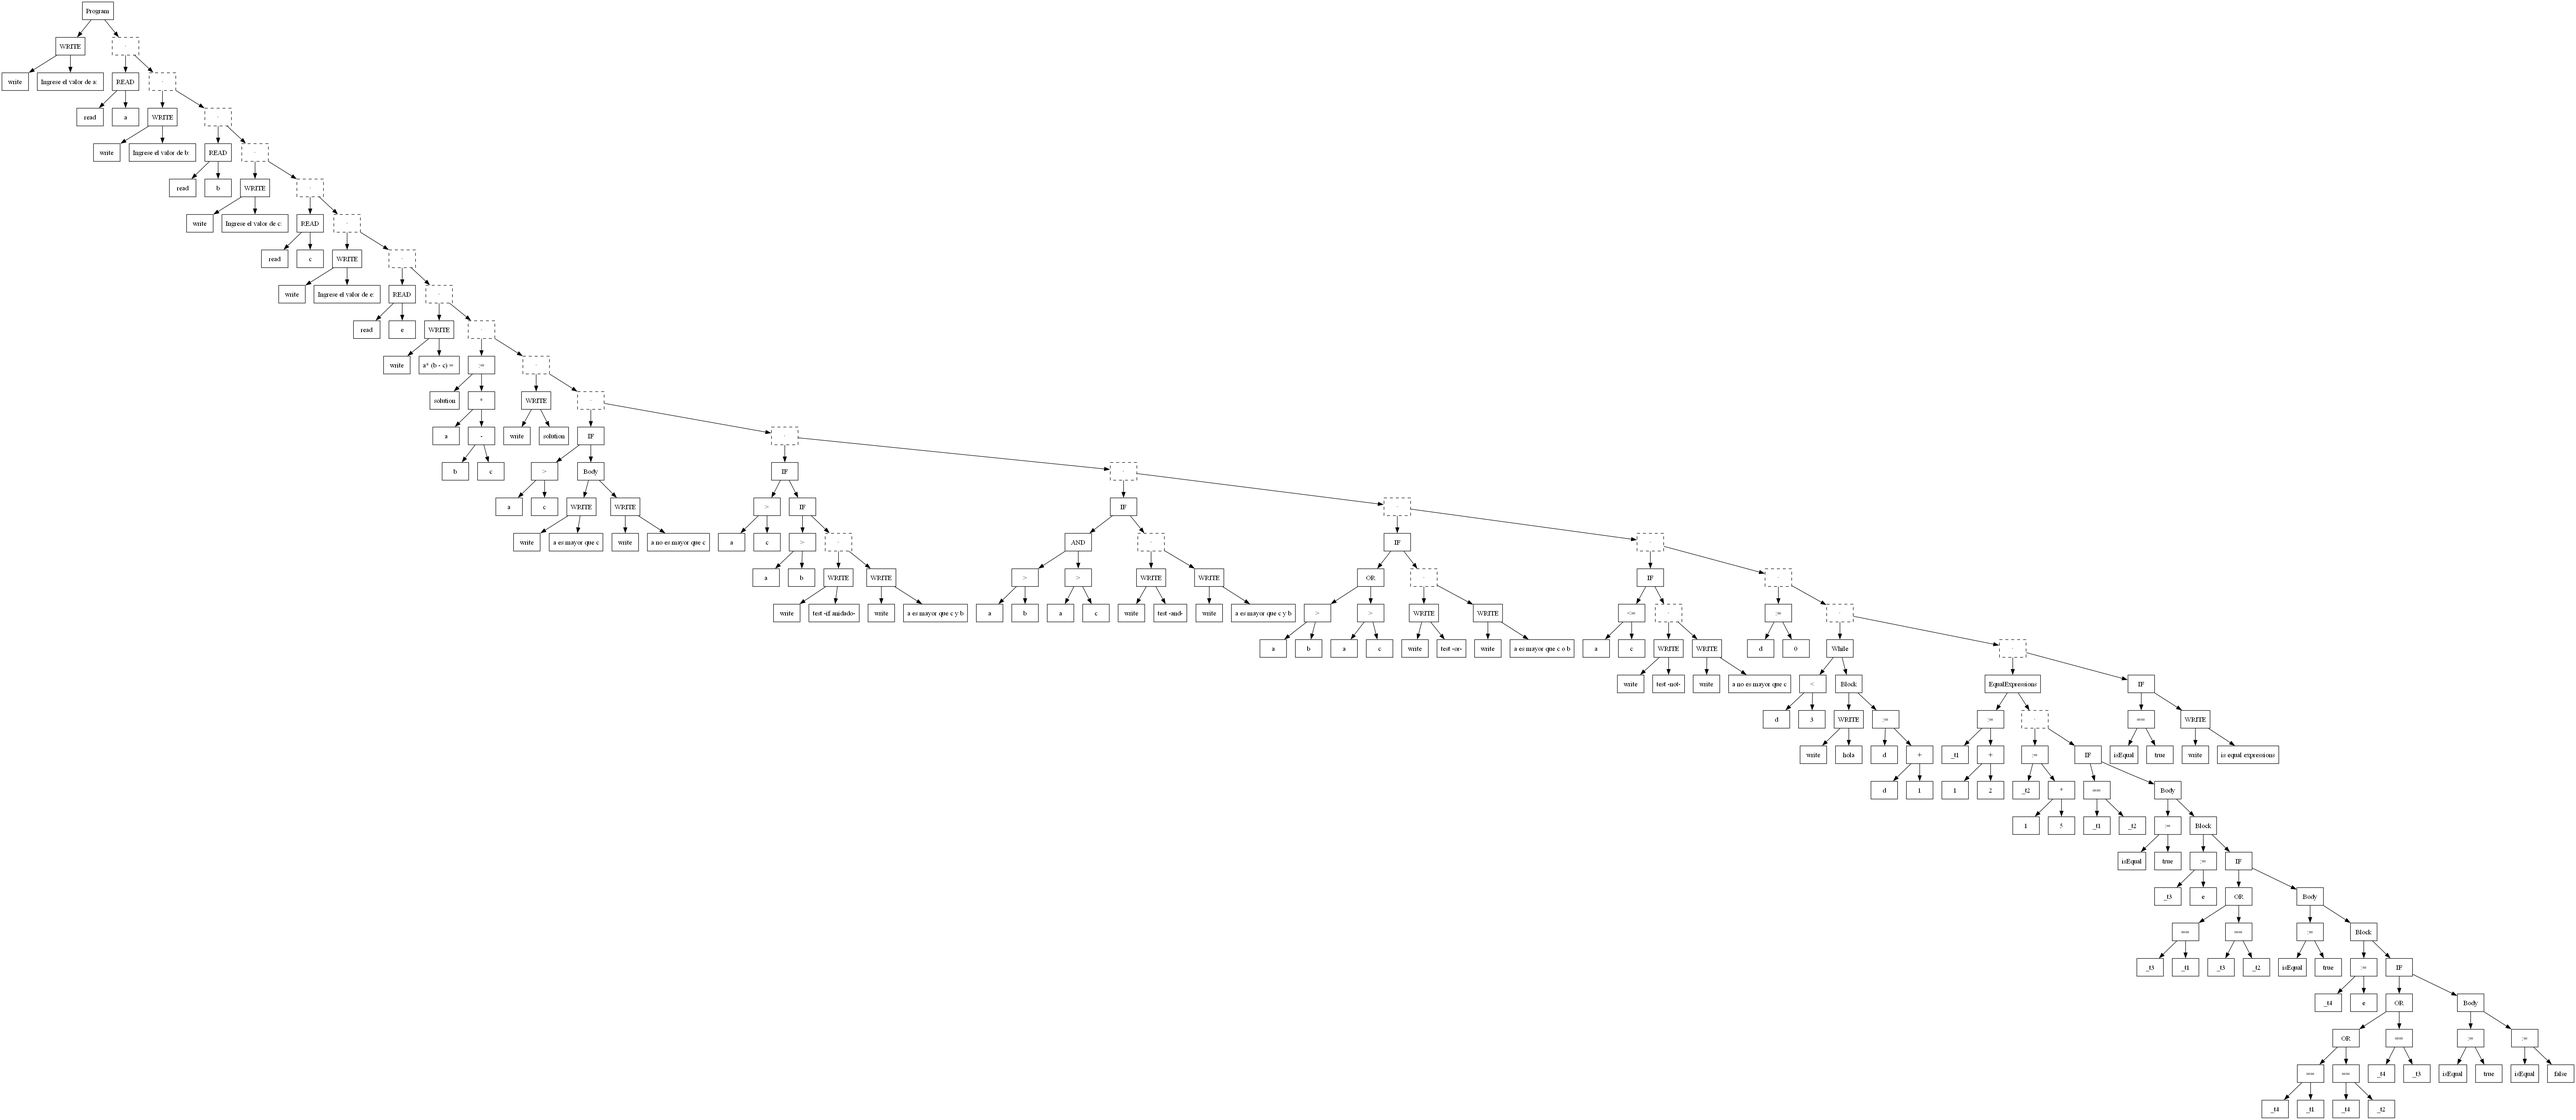
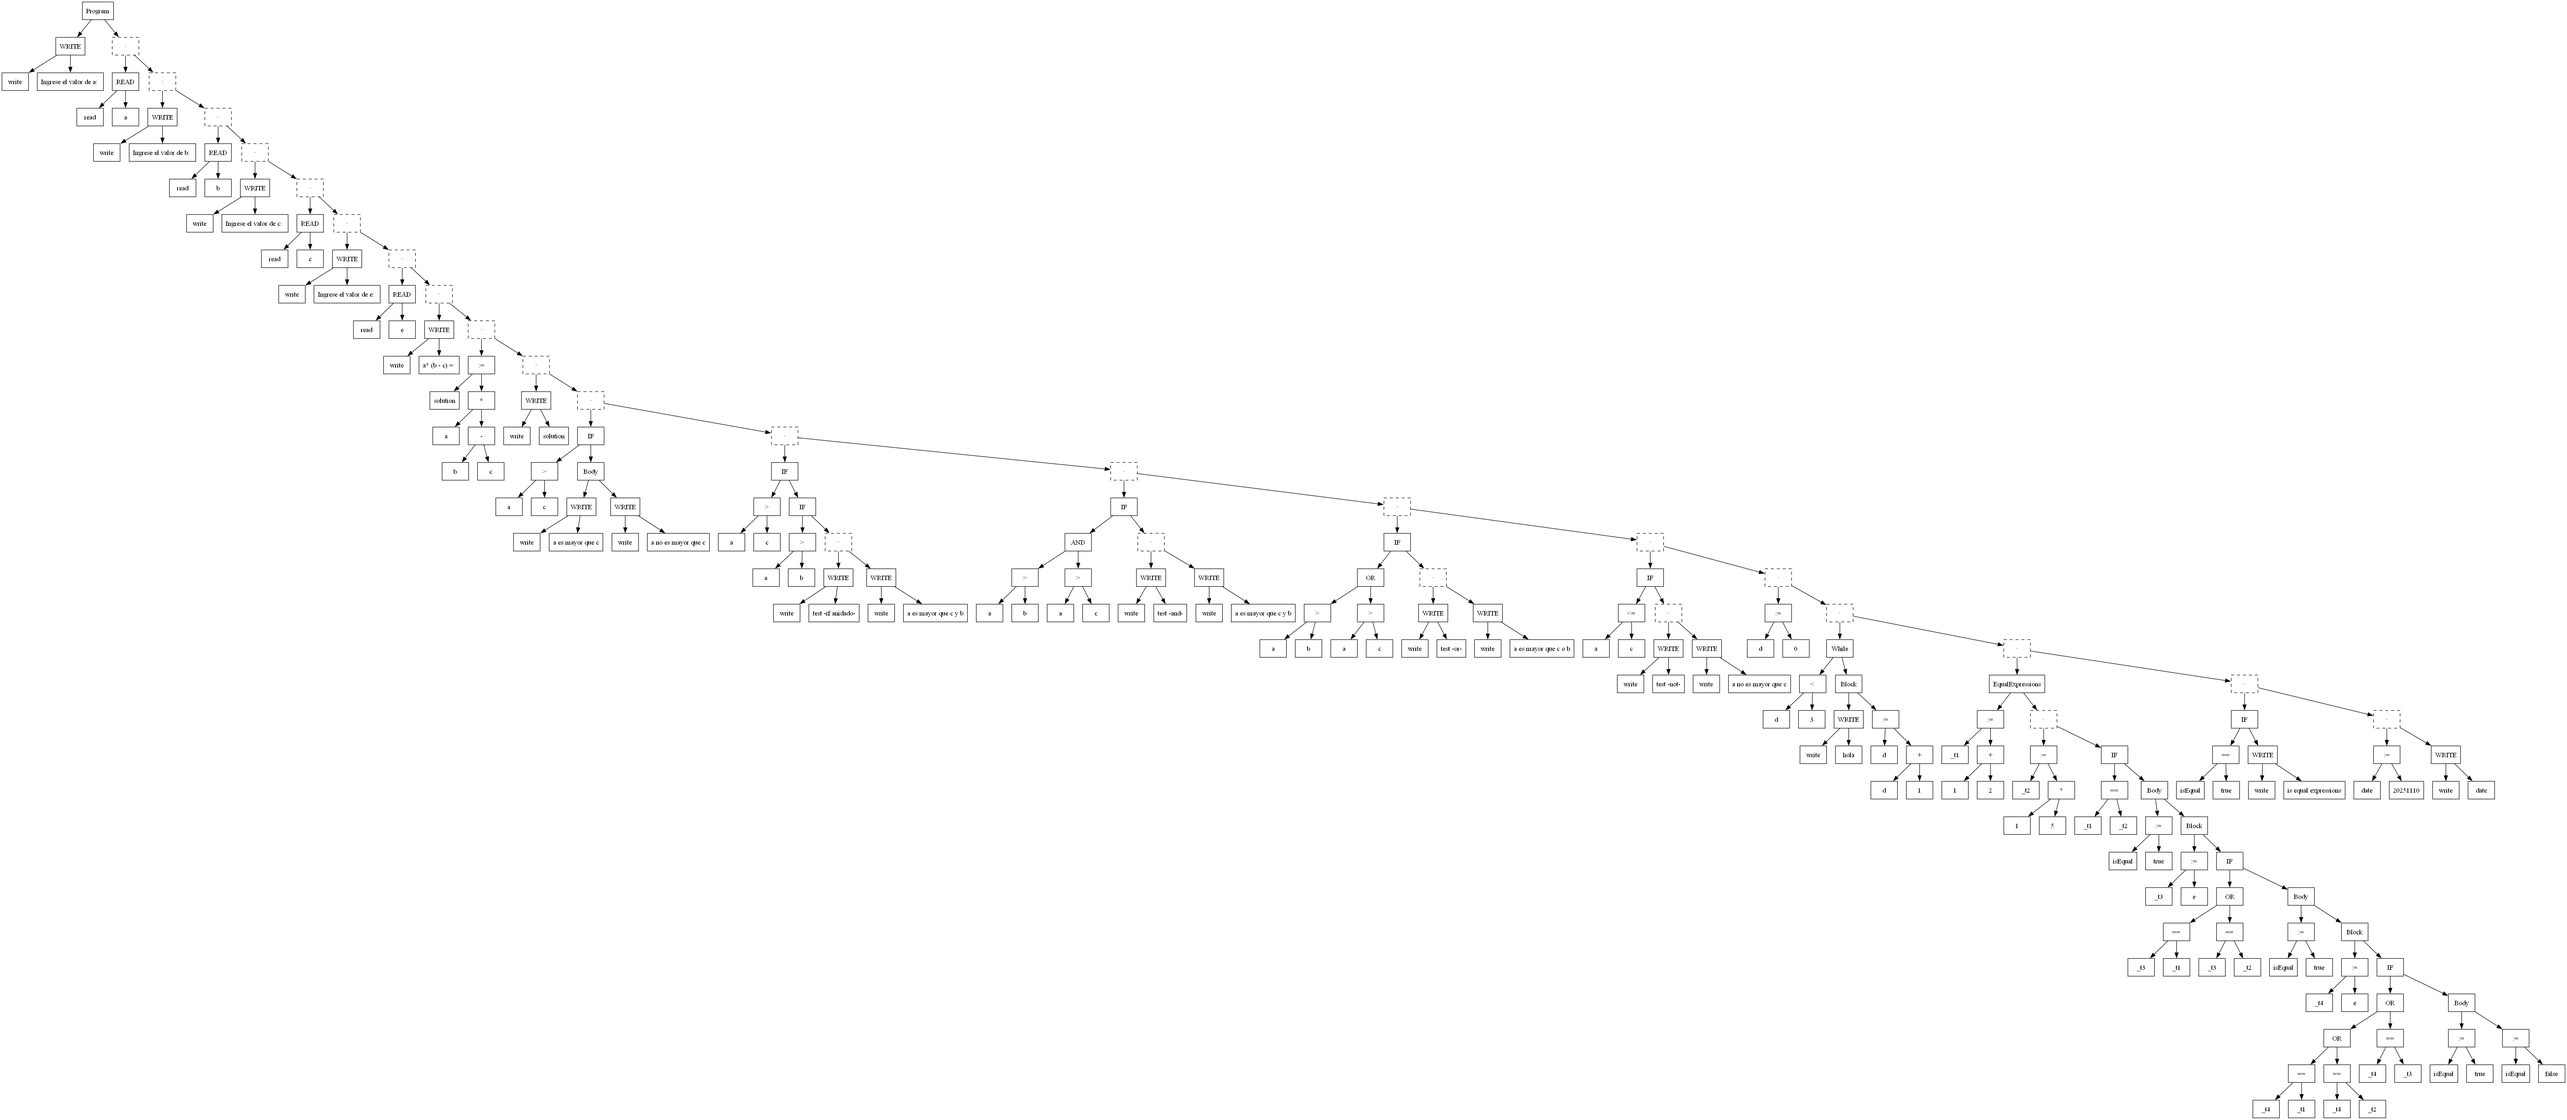
convDate fixed

diff --git a/assembler_generator.py b/assembler_generator.py
@@ -110,11 +110,42 @@ def generate_asembler(ast_root) -> Path:
         else:
             code.append(f'    ; TODO read unsupported type for {v}')
 
+    # Reusable buffer for printing DateConverted without commas
+    date_buf_added = {'added': False}
+
     def emit_write_var(varname: str):
         t = SEM.symbols.get(varname, {}).get('tipo', '')
         v = sanitize_label(varname)
-        if t == 'Int' or t == 'DateConverted':
+        if t == 'Int':
             code.append(f'    DisplayInteger {v}')
+            code.append('    newLine 1')
+        elif t == 'DateConverted':
+            # Print YYYYMMDD without commas
+            if not date_buf_added['added']:
+                data_lines.append("    DC_BUF           db  9 dup (?),\'$\'")
+                date_buf_added['added'] = True
+            code.append(f'    mov eax, dword ptr {v}')
+            code.append('    mov ebx, 10000000')
+            code.append('    mov ecx, 8')
+            code.append('    lea edi, DC_BUF')
+            code.append('DC_PRINT_LOOP:')
+            code.append('    xor edx, edx')
+            code.append('    div ebx')
+            code.append("    add al, '0'")
+            code.append('    mov [edi], al')
+            code.append('    inc edi')
+            code.append('    mov esi, edx')
+            code.append('    mov eax, ebx')
+            code.append('    xor edx, edx')
+            code.append('    mov ebp, 10')
+            code.append('    div ebp')
+            code.append('    mov ebx, eax')
+            code.append('    mov eax, esi')
+            code.append('    loop DC_PRINT_LOOP')
+            code.append("    mov byte ptr [edi], '$'")
+            code.append('    mov dx,OFFSET DC_BUF')
+            code.append('    mov ah,9')
+            code.append('    int 21h')
             code.append('    newLine 1')
         elif t == 'Float':
             # default to 2 decimal places
@@ -198,6 +229,36 @@ def generate_asembler(ast_root) -> Path:
         # Fallback
         code.append(f'    ; TODO assign unsupported RHS for {ld}')
 
+    def try_fold_convdate_pattern(n: ASTNode):
+        # Detect pattern: (anio*10000) + ((mes*100) + dia) where all are literals
+        try:
+            if not isinstance(n, ASTNode) or n.nodetype != '+' or len(n.children) != 2:
+                return None
+            left, right = n.children
+            if not (isinstance(left, ASTNode) and left.nodetype == '*' and len(left.children) == 2):
+                return None
+            ly, lconst = left.children
+            if not (isinstance(ly, ASTNode) and isinstance(lconst, ASTNode)):
+                return None
+            if not (lconst.nodetype == '10000' and ly.nodetype.isdigit()):
+                return None
+            if not (isinstance(right, ASTNode) and right.nodetype == '+' and len(right.children) == 2):
+                return None
+            rleft, rday = right.children
+            if not (isinstance(rleft, ASTNode) and rleft.nodetype == '*' and len(rleft.children) == 2):
+                return None
+            rmonth, rconst = rleft.children
+            if not (isinstance(rmonth, ASTNode) and isinstance(rconst, ASTNode)):
+                return None
+            if not (rconst.nodetype == '100' and rmonth.nodetype.isdigit() and isinstance(rday, ASTNode) and rday.nodetype.isdigit()):
+                return None
+            anio = int(ly.nodetype)
+            mes = int(rmonth.nodetype)
+            dia = int(rday.nodetype)
+            return anio * 10000 + mes * 100 + dia
+        except Exception:
+            return None
+
     def eval_int(n: ASTNode):
         # Result in EAX
         if not isinstance(n, ASTNode):
@@ -209,6 +270,20 @@ def generate_asembler(ast_root) -> Path:
             except Exception:
                 pass
         nt = n.nodetype if isinstance(n, ASTNode) else str(n)
+        # Direct ConvDate literal node
+        if isinstance(n, ASTNode) and nt == 'ConvDate':
+            try:
+                dia, mes, anio = map(int, str(getattr(n, 'value', '')).split('-'))
+                ival = anio * 10000 + mes * 100 + dia
+                code.append(f'    mov eax, {ival}')
+                return
+            except Exception:
+                pass
+        # convDate arithmetic folding
+        fv = try_fold_convdate_pattern(n)
+        if fv is not None:
+            code.append(f'    mov eax, {fv}')
+            return
         # variable
         if (isinstance(n, ASTNode) and not n.children and nt in SEM.symbols) or \
            (not isinstance(n, ASTNode) and (nt in SEM.symbols or nt.startswith('_t'))):

diff --git a/parser.py b/parser.py
@@ -493,10 +493,7 @@ def p_conv_date(p):
     '''conv_date : CONV_DATE A_PARENTESIS DATE C_PARENTESIS
     '''
     print(f'convDate ( DATE ) -> conv_date')
-    # Build an arithmetic AST equivalent to: (anio * 10000) + (mes * 100) + dia
-    # This follows the project's convention of representing expressions as
-    # ASTNodes with operators '+', '*', etc., so the code generator can lower
-    # the arithmetic like any other expression.
+    # Fold convDate at parse time to a literal YYYYMMDD (DateConverted)
     raw = p[3]
     try:
         dia, mes, anio = map(int, raw.split('-'))
@@ -509,26 +506,13 @@ def p_conv_date(p):
             if not is_leap:
                 raise ValueError(f"Fecha inválida (no es año bisiesto) '{raw}'")
 
-        # Create numeric AST nodes for year, month, day and the constants
-        node_year = ASTNode(str(anio), dtype='Int')
-        node_month = ASTNode(str(mes), dtype='Int')
-        node_day = ASTNode(str(dia), dtype='Int')
-        node_10000 = ASTNode(str(10000), dtype='Int')
-        node_100 = ASTNode(str(100), dtype='Int')
-
-        # anio * 10000
-        mul_year = ASTNode('*', children=[node_year, node_10000], dtype='Int')
-        # mes * 100
-        mul_month = ASTNode('*', children=[node_month, node_100], dtype='Int')
-        # (mes * 100) + dia
-        add_month_day = ASTNode('+', children=[mul_month, node_day], dtype='Int')
-        # (anio * 10000) + ((mes * 100) + dia)
-        total = ASTNode('+', children=[mul_year, add_month_day], dtype='DateConverted')
-        p[0] = total
+        # Fold convDate at parse time to YYYYMMDD integer literal
+        yyyymmdd = anio * 10000 + mes * 100 + dia
+        p[0] = ASTNode(str(yyyymmdd), dtype='DateConverted')
+        return
     except Exception as e:
-        # On failure, fall back to a ConvDate node so later stages can
-        # implement runtime conversion or raise an error.
-        print('Warning: convDate -> building arithmetic AST failed:', e)
+        # On failure, fall back to a ConvDate node
+        print('Warning: convDate -> folding failed:', e)
         node = ASTNode('ConvDate', value=raw, dtype='DateConverted')
         p[0] = node
 
